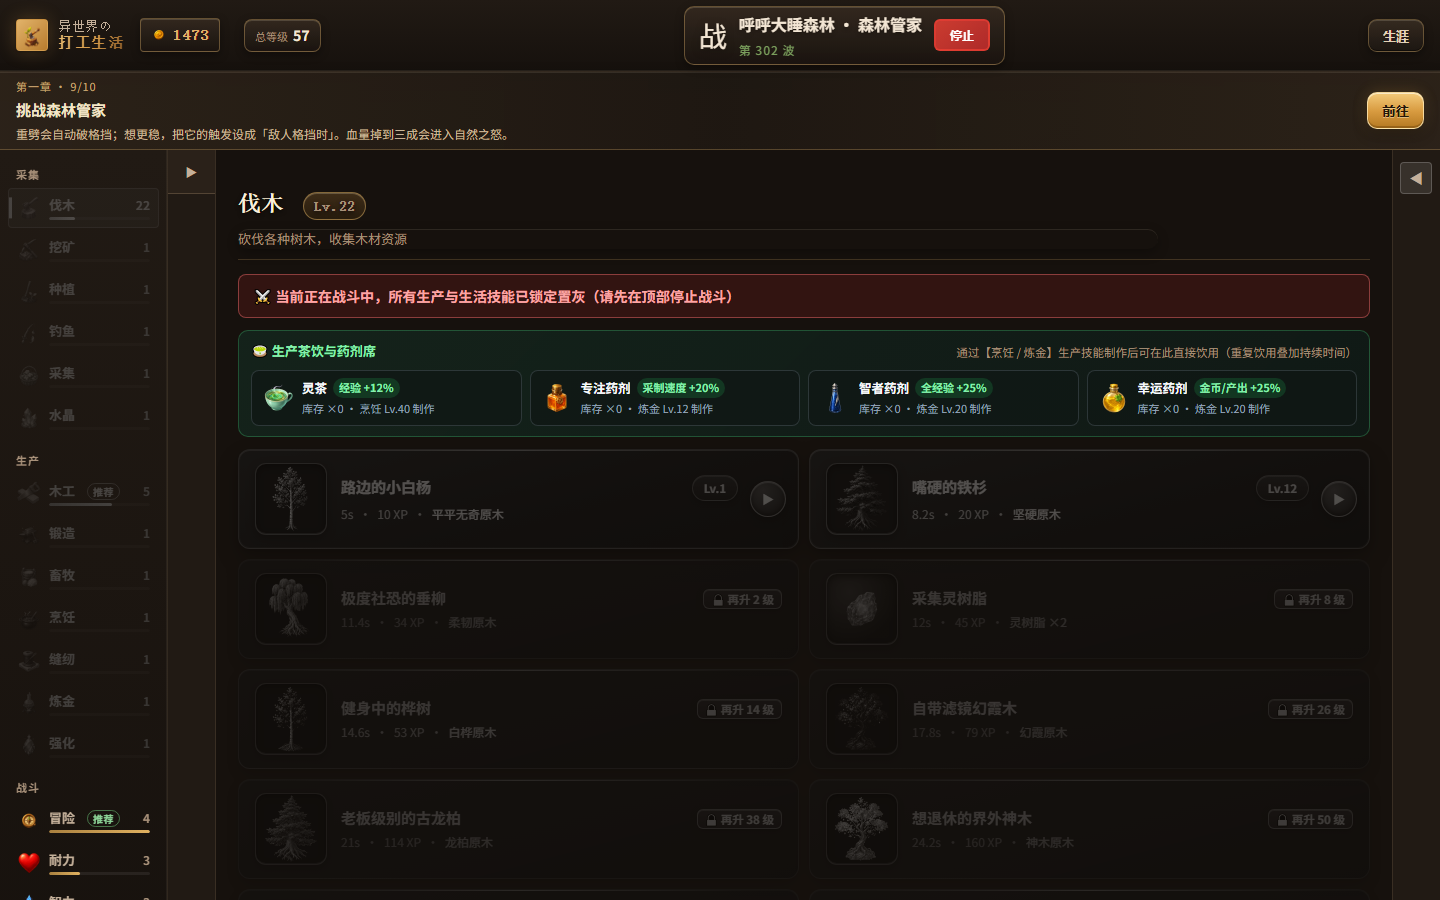
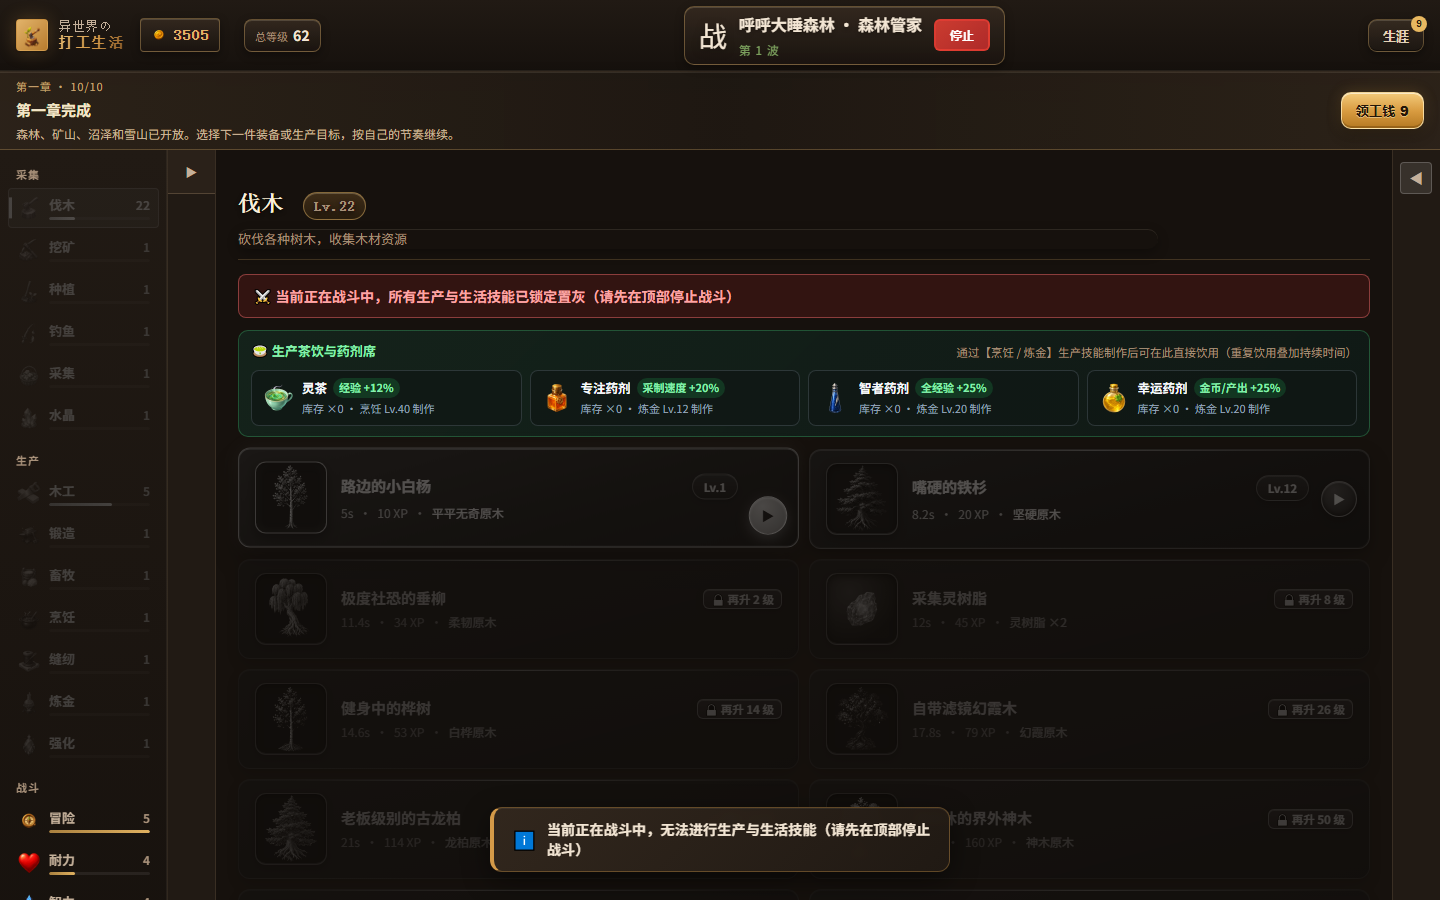
fix(worklife): preserve button gradient on hover, scale party bots by level, and sync offline boss wave clear

diff --git a/games/worklife/frontend/src/components/PartyPanel.tsx b/games/worklife/frontend/src/components/PartyPanel.tsx
@@ -396,9 +396,12 @@ export function PartyPanel({ initialStageId, onConsumeInitialStage, onCombatStat
       return sortedMembers.map((m, idx) => {
         const isSelf = m.userId === userId;
         const lv = isSelf ? playerLv : Math.max(playerLv, Number(m.combatLevel || 12));
-        const maxHp = isSelf ? playerMaxHp : Math.max(90, Math.round(playerMaxHp * (0.88 + (idx % 3) * 0.12)));
-        const atk = isSelf ? playerAtk : Math.max(9, Math.round(playerAtk * (0.78 + (idx % 3) * 0.1)));
-        const def = isSelf ? playerDef : Math.max(3, Math.round(playerDef * 0.85));
+        const baseLvHp = 70 + lv * 14;
+        const baseLvAtk = 8 + Math.round(lv * 2.4);
+        const baseLvDef = 2 + Math.round(lv * 0.85);
+        const maxHp = isSelf ? playerMaxHp : Math.max(90, baseLvHp, Math.round(playerMaxHp * (0.88 + (idx % 3) * 0.12)));
+        const atk = isSelf ? playerAtk : Math.max(9, baseLvAtk, Math.round(playerAtk * (0.78 + (idx % 3) * 0.1)));
+        const def = isSelf ? playerDef : Math.max(3, baseLvDef, Math.round(playerDef * 0.85));
         const intervalMs = isSelf ? playerInterval : 1950 + (idx % 3) * 260;
         return {
           userId: m.userId,
@@ -455,8 +458,9 @@ export function PartyPanel({ initialStageId, onConsumeInitialStage, onCombatStat
           const gapSec = Math.max(0, Math.floor((Date.now() - savedLastAt) / 1000));
           const extraKills = Math.floor(gapSec / 6);
           const extraWaves = Math.floor(extraKills / 3);
-          restoredWave = startWave + extraWaves;
-          const extraBossKills = Math.max(0, Math.floor((restoredWave - 1) / 10) - Math.floor((startWave - 1) / 10));
+          const rawWave = startWave + extraWaves;
+          restoredWave = ((rawWave - 1) % 10) + 1;
+          const extraBossKills = Math.max(0, Math.floor((rawWave - 1) / 10) - Math.floor((startWave - 1) / 10));
           const avgMinion = activeDungeon.minions[0] || activeDungeon.boss;
           restoredStats = {
             startedAt: trueStartedAt,
@@ -478,7 +482,7 @@ export function PartyPanel({ initialStageId, onConsumeInitialStage, onCombatStat
       const elapsedSecFromStart = Math.max(0, Math.floor((Date.now() - trueStartedAt) / 1000));
       const initialKills = Math.floor(elapsedSecFromStart / 6);
       const initialWaves = Math.floor(initialKills / 3);
-      restoredWave = 1 + initialWaves;
+      restoredWave = (initialWaves % 10) + 1;
       const avgMinion = activeDungeon.minions[0] || activeDungeon.boss;
       restoredStats = {
         startedAt: trueStartedAt,
@@ -490,6 +494,16 @@ export function PartyPanel({ initialStageId, onConsumeInitialStage, onCombatStat
         gold: initialKills * Math.max(2, Number(avgMinion.gold || 6)),
         loot: {},
       };
+    }
+
+    if (
+      restoredStats.bossKills > 0 &&
+      (playerState?.stats?.killsByMonster?.[activeDungeon.boss.id] || 0) === 0
+    ) {
+      void apiClient
+        .partyWaveClear(party.id, activeDungeon.id, 10, {})
+        .then(() => refreshPlayerState())
+        .catch(() => undefined);
     }
 
     const initialAllies = buildAlliesFormation(party);

diff --git a/games/worklife/frontend/src/index.css b/games/worklife/frontend/src/index.css
@@ -238,11 +238,11 @@ body::before {
   color: #2a1d10;
   box-shadow: var(--shadow-md);
 }
-.btn-primary:hover { box-shadow: var(--shadow-lg), var(--glow-brand); transform: translateY(-2px); }
+.btn-primary:hover { background: var(--grad-brand); border-color: transparent; color: #2a1d10; box-shadow: var(--shadow-lg), var(--glow-brand); transform: translateY(-2px); }
 
-.btn-success { background: var(--grad-green); border-color: transparent; color: #fff; box-shadow: var(--shadow-md); }
-.btn-warning { background: var(--grad-gold); border-color: transparent; color: #3a2c0a; box-shadow: var(--shadow-md); }
-.btn-danger  { background: var(--grad-red); border-color: transparent; color: #fff; box-shadow: var(--shadow-md); }
+.btn-success, .btn-success:hover { background: var(--grad-green); border-color: transparent; color: #fff; box-shadow: var(--shadow-md); }
+.btn-warning, .btn-warning:hover { background: var(--grad-gold); border-color: transparent; color: #3a2c0a; box-shadow: var(--shadow-md); }
+.btn-danger, .btn-danger:hover  { background: var(--grad-red); border-color: transparent; color: #fff; box-shadow: var(--shadow-md); }
 
 /* ============================================================
    5. 卡片

diff --git a/games/worklife/playtest_audit_log.md b/games/worklife/playtest_audit_log.md
@@ -488,8 +488,19 @@
 - Screenshots: `playtest_live_desktop.png`, `playtest_live_combat.png`, `playtest_live_mobile.png`
 - Result: Entered in-game views (Main + Combat + Mobile 390x844). Zero console errors, zero broken images, zero layout overflow.
 
-## [2026-11-09T12:24:41.531Z] Autonomous Playtest — PASS
+## [2026-11-09T12:51:49.299Z] Autonomous Playtest — ISSUES_FOUND (1)
+- Target: `https://worklife.yinosites.com` | Chapter Goal: `chop (chop)`
+- Screenshots: `playtest_live_desktop.png`, `playtest_live_combat.png`, `playtest_live_mobile.png`
+- Issues:
+  - Failed to enter in-game main layout (still on login or character creation screen).
+
+## [2026-11-09T12:56:34.664Z] Autonomous Playtest — PASS
 - Target: `https://worklife.yinosites.com` | Chapter Goal: `boss (挑战森林管家)`
+- Screenshots: `playtest_live_desktop.png`, `playtest_live_combat.png`, `playtest_live_mobile.png`
+- Result: Entered in-game views (Main + Combat + Mobile 390x844). Zero console errors, zero broken images, zero layout overflow.
+
+## [2026-11-09T13:09:24.132Z] Autonomous Playtest — PASS
+- Target: `https://worklife.yinosites.com` | Chapter Goal: `complete (第一章完成)`
 - Screenshots: `playtest_live_desktop.png`, `playtest_live_combat.png`, `playtest_live_mobile.png`
 - Result: Entered in-game views (Main + Combat + Mobile 390x844). Zero console errors, zero broken images, zero layout overflow.
 
